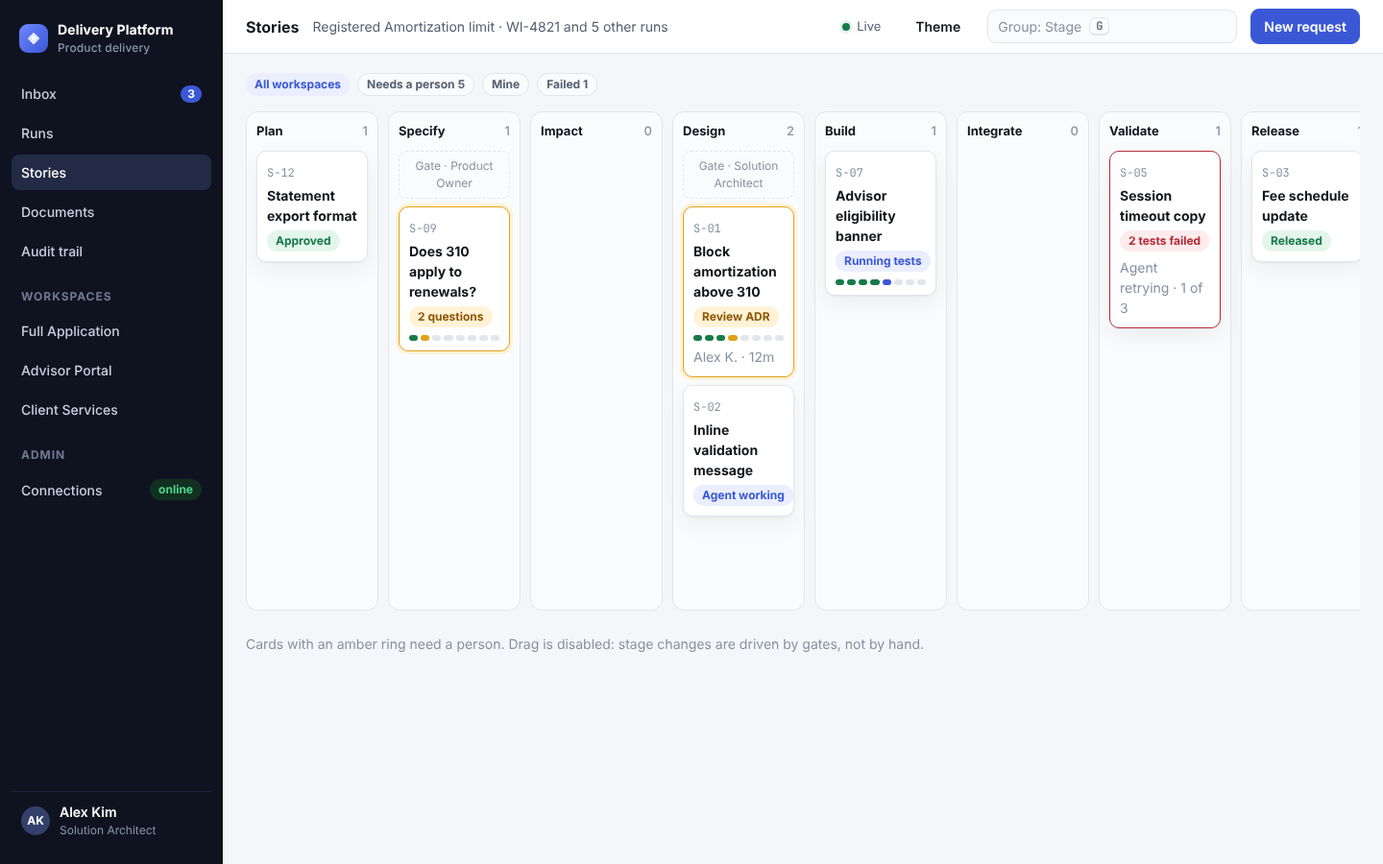
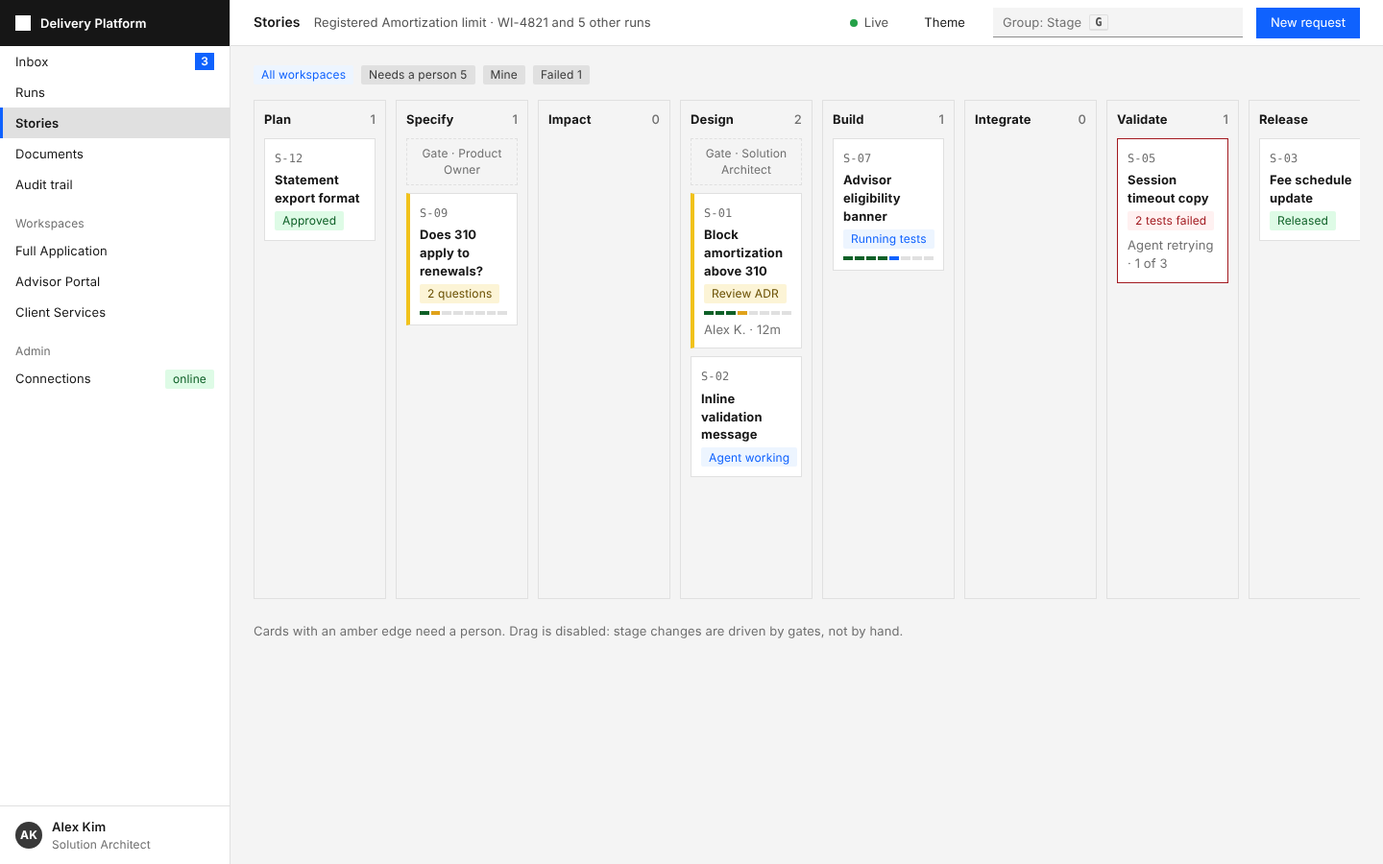
Restyle proposals to flat enterprise design language
Claude-Session: https://claude.ai/code/session_01M8VjWobWK2q9Jsgx3C2T2b

diff --git a/proposals/base.css b/proposals/base.css
@@ -1,53 +1,53 @@
-:root{--bg:#f5f6f9;--panel:#fff;--panel2:#fafbfc;--ink:#12151c;--muted:#566070;--faint:#8791a1;--line:#e2e5ec;--accent:#3a58d6;--accent-ink:#fff;--accent-soft:#eaeefe;--ok:#177a48;--ok-soft:#e4f5eb;--warn:#8f5700;--warn-soft:#fff2d6;--bad:#b42d38;--bad-soft:#fdebed;--rail:#0f1320;--rail-ink:#c9cfdd;--shadow:0 1px 2px rgba(16,24,40,.05),0 8px 24px rgba(16,24,40,.06);--r:12px;--sans:Inter,"Segoe UI",system-ui,sans-serif;--mono:"JetBrains Mono","Cascadia Code",Consolas,monospace}
-:root[data-theme=dark]{--bg:#0c0f17;--panel:#141926;--panel2:#10141f;--ink:#eef0f6;--muted:#a3adc0;--faint:#76819a;--line:#252c3d;--accent:#7b93ff;--accent-ink:#0c0f17;--accent-soft:#1c2547;--ok:#4cd08b;--ok-soft:#12301f;--warn:#f0b64a;--warn-soft:#3a2b0b;--bad:#ff7b86;--bad-soft:#3b151a;--rail:#080a11;--shadow:0 1px 2px rgba(0,0,0,.4)}
-*{box-sizing:border-box}body{margin:0;background:var(--bg);color:var(--ink);font:14px/1.5 var(--sans);-webkit-font-smoothing:antialiased}
+:root{--bg:#f4f4f4;--panel:#fff;--panel2:#f4f4f4;--ink:#161616;--muted:#525252;--faint:#6f6f6f;--line:#e0e0e0;--accent:#0f62fe;--accent-ink:#fff;--accent-soft:#edf5ff;--ok:#0e6027;--ok-soft:#defbe6;--warn:#684e00;--warn-soft:#fcf4d6;--bad:#a2191f;--bad-soft:#fff1f1;--rail:#fff;--rail-ink:#161616;--shadow:none;--r:2px;--sans:"IBM Plex Sans","Segoe UI",system-ui,sans-serif;--mono:"IBM Plex Mono",Consolas,monospace}
+:root[data-theme=dark]{--bg:#161616;--panel:#262626;--panel2:#1c1c1c;--ink:#f4f4f4;--muted:#c6c6c6;--faint:#a8a8a8;--line:#393939;--accent:#78a9ff;--accent-ink:#161616;--accent-soft:#001d6c;--ok:#42be65;--ok-soft:#022d0d;--warn:#f1c21b;--warn-soft:#3a2f00;--bad:#ff8389;--bad-soft:#520408;--rail:#262626;--rail-ink:#f4f4f4;--shadow:none}
+*{box-sizing:border-box}body{margin:0;background:var(--bg);color:var(--ink);font:13px/1.45 var(--sans);letter-spacing:.01em;-webkit-font-smoothing:antialiased}
 button{font:inherit;color:inherit;cursor:pointer}a{color:inherit;text-decoration:none}
 :focus-visible{outline:2px solid var(--accent);outline-offset:2px;border-radius:6px}
-.app{display:grid;grid-template-columns:232px 1fr;min-height:100vh}
-.rail{background:var(--rail);color:var(--rail-ink);padding:16px 12px;display:flex;flex-direction:column;gap:4px;position:sticky;top:0;height:100vh}
-.brand{display:flex;gap:10px;align-items:center;padding:4px 8px 16px;color:#fff;font-weight:700;letter-spacing:.01em}
-.brand i{width:30px;height:30px;border-radius:9px;background:linear-gradient(135deg,#6d86ff,#3a58d6);display:grid;place-items:center;font-style:normal;font-size:15px}
-.brand small{display:block;font-weight:500;color:#8b94ab;font-size:12px}
-.rail a{display:flex;justify-content:space-between;align-items:center;padding:8px 10px;border-radius:8px;font-weight:500}
-.rail a:hover{background:#1a2033}.rail a.on{background:#222a45;color:#fff}
-.rail .n{background:var(--accent);color:#fff;border-radius:99px;padding:0 7px;font-size:12px;font-weight:700}
-.rail h6{margin:16px 10px 4px;font-size:12px;letter-spacing:.08em;text-transform:uppercase;color:#6f7a93}
-.rail .me{margin-top:auto;display:flex;gap:10px;align-items:center;padding:10px;border-top:1px solid #1d2438}
-.av{width:30px;height:30px;border-radius:50%;background:#33406b;color:#fff;display:grid;place-items:center;font-size:12px;font-weight:700}
+.app{display:grid;grid-template-columns:240px 1fr;min-height:100vh}
+.rail{background:var(--rail);color:var(--rail-ink);padding:0;display:flex;flex-direction:column;position:sticky;top:0;height:100vh;border-right:1px solid var(--line)}
+.brand{display:flex;gap:10px;align-items:center;padding:0 16px;height:48px;background:#161616;color:#fff;font-weight:600}
+.brand i{width:16px;height:16px;background:#fff;display:block;font-size:0}
+.brand small{display:none}
+.rail a{display:flex;justify-content:space-between;align-items:center;padding:0 16px;height:32px;color:var(--ink)}
+.rail a:hover{background:#e8e8e8}.rail a.on{background:#e0e0e0;box-shadow:inset 3px 0 0 var(--accent);font-weight:600}
+.rail .n{background:var(--accent);color:#fff;padding:0 6px;font-size:12px;font-weight:600}
+.rail h6{margin:16px 16px 4px;font-size:12px;font-weight:400;color:var(--faint)}
+.rail .me{margin-top:auto;display:flex;gap:10px;align-items:center;padding:12px 16px;border-top:1px solid var(--line)}
+.av{width:28px;height:28px;border-radius:50%;background:#393939;color:#fff;display:grid;place-items:center;font-size:12px;font-weight:700}
 .main{min-width:0;display:flex;flex-direction:column}
-.top{height:56px;display:flex;align-items:center;gap:14px;padding:0 24px;border-bottom:1px solid var(--line);background:var(--panel);position:sticky;top:0;z-index:5}
-.top h1{font-size:16px;margin:0;font-weight:650}
+.top{height:48px;display:flex;align-items:center;gap:14px;padding:0 24px;border-bottom:1px solid var(--line);background:var(--panel);position:sticky;top:0;z-index:5}
+.top h1{font-size:14px;margin:0;font-weight:600}
 .crumb{color:var(--muted)}
 .sp{flex:1}
-.search{display:flex;align-items:center;gap:8px;border:1px solid var(--line);background:var(--panel2);border-radius:9px;padding:6px 10px;min-width:260px;color:var(--faint)}
-kbd{font:600 12px var(--mono);border:1px solid var(--line);border-bottom-width:2px;border-radius:6px;padding:0 6px;background:var(--panel2);color:var(--muted)}
-.btn{border:1px solid var(--line);background:var(--panel);border-radius:9px;padding:7px 13px;font-weight:600;display:inline-flex;gap:8px;align-items:center}
-.btn:hover{background:var(--panel2)}.btn.pri{background:var(--accent);color:var(--accent-ink);border-color:var(--accent)}.btn.pri:hover{filter:brightness(1.08)}
-.btn.ok{background:var(--ok);color:#fff;border-color:var(--ok)}.btn.ghost{border-color:transparent;background:transparent}
+.search{display:flex;align-items:center;gap:8px;border:1px solid var(--line);background:var(--panel2);border-radius:0;border:0;border-bottom:1px solid #8d8d8d;padding:6px 10px;min-width:260px;color:var(--faint)}
+kbd{font:600 12px var(--mono);border:1px solid var(--line);border-bottom-width:2px;border-radius:2px;padding:0 5px;background:var(--panel2);color:var(--muted)}
+.btn{border:1px solid #8d8d8d;background:transparent;border-radius:0;padding:0 14px;height:32px;font-weight:400;display:inline-flex;gap:8px;align-items:center}
+.btn:hover{background:#e8e8e8}.btn.pri{background:var(--accent);color:var(--accent-ink);border-color:var(--accent)}.btn.pri:hover{filter:brightness(.92)}
+.btn.ok{background:var(--accent);color:var(--accent-ink);border-color:var(--accent)}.btn.ghost{border-color:transparent;background:transparent}
 .btn kbd{background:rgba(255,255,255,.18);border-color:rgba(255,255,255,.35);color:inherit}
-.live{display:inline-flex;gap:7px;align-items:center;color:var(--muted);font-size:13px}.live:before{content:"";width:8px;height:8px;border-radius:50%;background:var(--ok);box-shadow:0 0 0 3px var(--ok-soft)}
+.live{display:inline-flex;gap:7px;align-items:center;color:var(--muted);font-size:13px}.live:before{content:"";width:8px;height:8px;border-radius:50%;background:#24a148}
 .page{padding:20px 24px 40px;display:flex;flex-direction:column;gap:16px}
-.card{background:var(--panel);border:1px solid var(--line);border-radius:var(--r);box-shadow:var(--shadow)}
-.card>header{padding:14px 16px;border-bottom:1px solid var(--line);display:flex;align-items:center;gap:10px}
-.card>header h2,.card>header h3{margin:0;font-size:14px;font-weight:650}
+.card{background:var(--panel);border:1px solid var(--line);border-radius:0}
+.card>header{padding:10px 16px;background:var(--panel2);border-bottom:1px solid var(--line);display:flex;align-items:center;gap:10px}
+.card>header h2,.card>header h3{margin:0;font-size:14px;font-weight:600}
 .pad{padding:16px}
-.chip{display:inline-flex;align-items:center;gap:6px;padding:2px 9px;border-radius:99px;font-size:12px;font-weight:650;background:var(--accent-soft);color:var(--accent);white-space:nowrap}
-.chip.ok{background:var(--ok-soft);color:var(--ok)}.chip.warn{background:var(--warn-soft);color:var(--warn)}.chip.bad{background:var(--bad-soft);color:var(--bad)}.chip.mute{background:var(--panel2);color:var(--muted);border:1px solid var(--line)}
+.chip{display:inline-flex;align-items:center;gap:6px;padding:0 8px;height:20px;border-radius:2px;font-size:12px;font-weight:400;background:var(--accent-soft);color:var(--accent);white-space:nowrap}
+.chip.ok{background:var(--ok-soft);color:var(--ok)}.chip.warn{background:var(--warn-soft);color:var(--warn)}.chip.bad{background:var(--bad-soft);color:var(--bad)}.chip.mute{background:#e0e0e0;color:#393939}
 .mono{font-family:var(--mono);font-size:12px}.muted{color:var(--muted)}.faint{color:var(--faint)}
-.lbl{font-size:12px;letter-spacing:.06em;text-transform:uppercase;color:var(--faint);font-weight:650}
+.lbl{font-size:12px;color:var(--faint);font-weight:400}
 /* 8-stage segmented bar */
-.seg{display:flex;gap:3px}.seg i{height:6px;flex:1;border-radius:3px;background:var(--line)}
+.seg{display:flex;gap:2px}.seg i{height:4px;flex:1;border-radius:0;background:var(--line)}
 .seg i.d{background:var(--ok)}.seg i.a{background:var(--accent)}.seg i.w{background:#e0a21a}.seg i.f{background:var(--bad)}
 .dot{width:9px;height:9px;border-radius:50%;display:inline-block;background:var(--line)}.dot.d{background:var(--ok)}.dot.a{background:var(--accent)}.dot.w{background:#e0a21a}
-table{border-collapse:collapse;width:100%}th{text-align:left;font-size:12px;letter-spacing:.05em;text-transform:uppercase;color:var(--faint);font-weight:650;padding:9px 14px;border-bottom:1px solid var(--line);background:var(--panel2)}td{padding:11px 14px;border-bottom:1px solid var(--line);vertical-align:middle}
+table{border-collapse:collapse;width:100%}th{text-align:left;font-size:12px;color:var(--ink);font-weight:600;padding:0 14px;height:32px;border-bottom:1px solid var(--line);background:var(--panel2)}td{padding:7px 14px;border-bottom:1px solid var(--line);vertical-align:middle}
 tr.sel td{background:var(--accent-soft)}
 .theme{margin-left:8px}
 .doc h3{font-size:18px;margin:0 0 6px}.doc h4{margin:18px 0 6px;font-size:14px}.doc p,.doc li{color:var(--ink)}.doc ul{padding-left:18px;margin:6px 0}
 .hl{background:var(--warn-soft);border-bottom:2px solid #e0a21a;padding:0 2px;border-radius:3px}
-.note{border-left:3px solid var(--accent);background:var(--accent-soft);padding:10px 12px;border-radius:0 8px 8px 0}
+.note{border-left:3px solid var(--accent);background:var(--accent-soft);padding:10px 12px}
 .note.warn{border-color:#e0a21a;background:var(--warn-soft)}
 .check{display:flex;gap:10px;align-items:flex-start;padding:8px 0;border-bottom:1px dashed var(--line)}.check:last-child{border:0}
-.check b{width:18px;height:18px;border-radius:5px;border:1.5px solid var(--faint);display:grid;place-items:center;flex:none;margin-top:1px;font-size:12px}.check b.y{background:var(--ok);border-color:var(--ok);color:#fff}
-.tabs{display:flex;gap:2px;border-bottom:1px solid var(--line);padding:0 12px}.tabs a{padding:10px 12px;color:var(--muted);font-weight:600;border-bottom:2px solid transparent}.tabs a.on{color:var(--ink);border-color:var(--accent)}
+.check b{width:18px;height:18px;border-radius:0;border:1px solid var(--faint);display:grid;place-items:center;flex:none;margin-top:1px;font-size:12px}.check b.y{background:var(--ok);border-color:var(--ok);color:#fff}
+.tabs{display:flex;gap:2px;border-bottom:1px solid var(--line);padding:0 12px}.tabs a{padding:8px 14px;color:var(--muted);font-weight:400;border-bottom:2px solid transparent}.tabs a.on{color:var(--ink);border-color:var(--accent);font-weight:600}
 .grid{display:grid;gap:16px}
 @media (prefers-reduced-motion:no-preference){.pulse{animation:p 2s infinite}@keyframes p{50%{opacity:.45}}}

diff --git a/proposals/06-roles.html b/proposals/06-roles.html
@@ -1,15 +1,15 @@
 <!doctype html><html lang="en"><head><meta charset="utf-8"><meta name="viewport" content="width=device-width,initial-scale=1"><title>F · Role lenses</title><link rel="stylesheet" href="base.css"><style>
-.seg2{display:inline-flex;background:var(--panel2);border:1px solid var(--line);border-radius:10px;padding:3px}.seg2 button{border:0;background:transparent;padding:6px 14px;border-radius:8px;font-weight:600;color:var(--muted)}.seg2 button[aria-selected=true]{background:var(--panel);color:var(--ink);box-shadow:var(--shadow)}
+.seg2{display:inline-flex;background:#e0e0e0;padding:0}.seg2 button{border:0;background:transparent;padding:0 16px;height:32px;font-weight:600;color:var(--muted)}.seg2 button[aria-selected=true]{background:var(--panel);color:var(--ink);border-bottom:2px solid var(--accent)}
 .lens{display:none}.lens.on{display:grid;gap:16px}
-.hero{padding:22px;display:flex;gap:20px;align-items:center}.hero h2{margin:0;font-size:22px}
+.hero{padding:22px;display:flex;gap:20px;align-items:center}.hero h2{margin:0;font-size:18px;font-weight:400}
 .cols2{display:grid;grid-template-columns:1.2fr 1fr;gap:16px}
 .row{display:flex;justify-content:space-between;gap:10px;padding:10px 0;border-bottom:1px solid var(--line)}.row:last-child{border:0}
-.term{background:#0b0f19;color:#d6deeb;font:13px/1.6 var(--mono);padding:14px;border-radius:10px}
+.term{background:#0b0f19;color:#d6deeb;font:13px/1.6 var(--mono);padding:14px}
 </style></head><body data-active="inbox"><div class="app"><main class="main">
 <div class="top"><h1>Home</h1><div class="sp"></div><div class="seg2" role="tablist" aria-label="View as"><button role="tab" aria-selected="true" data-l="req">Requester</button><button role="tab" aria-selected="false" data-l="app">Approver</button><button role="tab" aria-selected="false" data-l="eng">Engineer</button><button role="tab" aria-selected="false" data-l="aud">Auditor</button></div></div>
 <div class="page">
-<div class="lens on" id="req"><div class="card hero"><div style="flex:1"><div class="lbl">Your request</div><h2>Registered Amortization limit is in design</h2><p class="muted" style="margin:6px 0 0">Step 4 of 8. An architect is reviewing the plan now. You don't need to do anything.</p></div><div style="width:300px"><div class="seg"><i class="d"></i><i class="d"></i><i class="d"></i><i class="w"></i><i></i><i></i><i></i><i></i></div><div class="muted" style="margin-top:8px">Expected release: Thursday</div></div></div>
-<div class="cols2"><div class="card pad"><div class="lbl">Start a new request</div><textarea style="width:100%;margin-top:8px;height:96px;border:1px solid var(--line);border-radius:10px;padding:10px;font:inherit;background:var(--panel2);color:var(--ink)" aria-label="Business request">Describe what needs to change and why…</textarea><div style="margin-top:10px;display:flex;gap:8px"><button class="btn pri">Start delivery</button><button class="btn ghost">Use a template</button></div></div><div class="card pad"><div class="lbl">Recent requests</div><div class="row"><span>Fee schedule update</span><span class="chip ok">Released</span></div><div class="row"><span>Session timeout copy</span><span class="chip bad">Needs attention</span></div><div class="row"><span>Statement export format</span><span class="chip warn">1 question for you</span></div></div></div></div>
+<div class="lens on" id="req"><div class="card hero"><div style="flex:1"><div class="lbl">Your request</div><h2>WI-4821 · Registered Amortization limit · Design</h2><p class="muted" style="margin:6px 0 0">Stage 4 of 8. Awaiting Solution Architect review. No action required from you.</p></div><div style="width:300px"><div class="seg"><i class="d"></i><i class="d"></i><i class="d"></i><i class="w"></i><i></i><i></i><i></i><i></i></div><div class="muted" style="margin-top:8px">Expected release: Thursday</div></div></div>
+<div class="cols2"><div class="card pad"><div class="lbl">Start a new request</div><textarea style="width:100%;margin-top:8px;height:96px;border:1px solid var(--line);border-radius:0;padding:10px;font:inherit;background:var(--panel2);color:var(--ink)" aria-label="Business request">Describe what needs to change and why…</textarea><div style="margin-top:10px;display:flex;gap:8px"><button class="btn pri">Start delivery</button><button class="btn ghost">Use a template</button></div></div><div class="card pad"><div class="lbl">Recent requests</div><div class="row"><span>Fee schedule update</span><span class="chip ok">Released</span></div><div class="row"><span>Session timeout copy</span><span class="chip bad">Needs attention</span></div><div class="row"><span>Statement export format</span><span class="chip warn">1 question for you</span></div></div></div></div>
 <div class="lens" id="app"><div class="card hero"><div style="flex:1"><div class="lbl">Waiting on you</div><h2>3 decisions</h2><p class="muted" style="margin:6px 0 0">Sorted by how long they have been waiting.</p></div><button class="btn pri">Start with the oldest <kbd>↵</kbd></button></div><div class="card"><table><tbody><tr><td><b>Approve solution design</b><div class="muted">Registered Amortization limit</div></td><td><span class="chip warn">Solution Architect</span></td><td>12m</td><td><button class="btn">Review</button></td></tr><tr><td><b>Answer 2 questions</b><div class="muted">Statement export format</div></td><td><span class="chip warn">Product Owner</span></td><td>1h</td><td><button class="btn">Review</button></td></tr><tr><td><b>Developer completion</b><div class="muted">Validation message copy</div></td><td><span class="chip warn">Engineering Lead</span></td><td>3h</td><td><button class="btn">Review</button></td></tr></tbody></table></div></div>
 <div class="lens" id="eng"><div class="cols2"><div class="card"><header><h3>Developer task · S-01</h3><span class="chip warn">Branch not found</span></header><div class="pad"><div class="row"><span>Azure Boards Task #8812</span><button class="btn">Open</button></div><div class="row"><span>Target branch</span><span class="mono">feature/amortization-max</span></div><div class="row"><span>Pull request</span><span class="faint">Not opened</span></div><div class="row"><span>Pipeline</span><span class="faint">Not started</span></div><div style="margin-top:12px;display:flex;gap:8px"><button class="btn pri">Check branch</button><button class="btn">Copy developer prompt</button></div></div></div><div class="term">$ git push origin feature/amortization-max<br>✓ Branch found<br>✓ Pull request opened #214<br>… pipeline queued</div></div></div>
 <div class="lens" id="aud"><div class="card"><header><h3>Evidence trail · WI-4821</h3><button class="btn" style="margin-left:auto">Export PDF</button></header><table><thead><tr><th>Time</th><th>Event</th><th>Actor</th><th>Evidence</th></tr></thead><tbody><tr><td class="mono">Tue 14:02</td><td>Delivery plan approved</td><td>Priya N.</td><td class="mono">plan-v2.md</td></tr><tr><td class="mono">Tue 16:20</td><td>Specification approved</td><td>Priya N.</td><td class="mono">spec-v3.md</td></tr><tr><td class="mono">Wed 14:33</td><td>Design quality check passed</td><td>Agent</td><td class="mono">adr-0173.md</td></tr><tr><td class="mono">Wed 14:40</td><td>Design opened for review</td><td>Alex K.</td><td class="mono">—</td></tr></tbody></table></div></div>

diff --git a/proposals/04-timeline.html b/proposals/04-timeline.html
@@ -2,11 +2,11 @@
 .wrap{display:grid;grid-template-columns:1fr 340px;gap:24px;padding:24px;align-items:start}
 .feed{display:flex;flex-direction:column;gap:0;max-width:820px}
 .ev{display:grid;grid-template-columns:36px 1fr;gap:14px}
-.ev .l{display:flex;flex-direction:column;align-items:center}.ev .l i{width:30px;height:30px;border-radius:50%;display:grid;place-items:center;font-style:normal;font-size:14px;background:var(--panel);border:2px solid var(--line)}
+.ev .l{display:flex;flex-direction:column;align-items:center}.ev .l i{width:24px;height:24px;border-radius:50%;display:grid;place-items:center;font-style:normal;font-size:14px;background:var(--panel);border:2px solid var(--line)}
 .ev .l u{flex:1;width:2px;background:var(--line);margin:2px 0}
 .ev.d .l i{border-color:var(--ok);color:var(--ok)}.ev.w .l i{border-color:#e0a21a;color:var(--warn);background:var(--warn-soft)}.ev.a .l i{border-color:var(--accent);color:var(--accent)}
 .ev .c{padding-bottom:22px}.ev .c b{font-size:15px}.ev details{margin-top:6px;color:var(--muted)}.ev summary{cursor:pointer;color:var(--accent);font-weight:600}
-.ask{border:2px solid #e0a21a;background:var(--panel);border-radius:var(--r);padding:16px;margin-top:8px;box-shadow:0 0 0 5px var(--warn-soft)}
+.ask{border:1px solid var(--line);border-left:4px solid #f1c21b;background:var(--panel);padding:16px;margin-top:8px}
 .thinking{display:flex;gap:6px;align-items:center;color:var(--muted)}
 </style></head><body data-active="runs"><div class="app"><main class="main">
 <div class="top"><h1>Registered Amortization limit</h1><span class="mono muted">WI-4821</span><span class="chip warn">Waiting for you</span><div class="sp"></div><button class="btn">Stop run</button></div>
@@ -14,9 +14,9 @@
 <div class="ev d"><div class="l"><i>✓</i><u></u></div><div class="c"><b>Plan approved</b><div class="muted">One objective, 2 stories. Priya N. approved yesterday 14:02.</div><details><summary>Show evidence</summary>Plan document · 4 sources · quality check passed</details></div></div>
 <div class="ev d"><div class="l"><i>✓</i><u></u></div><div class="c"><b>Specification approved</b><div class="muted">8 acceptance criteria. 2 questions answered (renewals included: yes).</div></div></div>
 <div class="ev d"><div class="l"><i>✓</i><u></u></div><div class="c"><b>Impact assessed</b><div class="muted">Touches the Product Selection page, the shared validator and 1 test suite. Nothing outside the Full Application.</div></div></div>
-<div class="ev w"><div class="l"><i>!</i><u></u></div><div class="c"><b>Design is ready. I need a decision from you.</b>
-<div class="muted">I recommend enforcing the limit on the client with the existing validator. The server will not re-check it in this story.</div>
-<div class="ask"><div class="lbl">Solution Architect decision</div><p style="margin:6px 0 12px">Approve the design and ADR-0173, knowing the API can still accept values above 310?</p><div style="display:flex;gap:8px;flex-wrap:wrap"><button class="btn ok">Approve &amp; continue</button><button class="btn">Request changes</button><button class="btn ghost">Open full document</button></div></div></div></div>
+<div class="ev w"><div class="l"><i>!</i><u></u></div><div class="c"><b>Design · decision required</b>
+<div class="muted">Recommendation: enforce the limit in the client using the existing validator. Server-side validation is not changed in this story.</div>
+<div class="ask"><div class="lbl">Solution Architect decision</div><p style="margin:6px 0 12px">Approve ADR-0173. Accepted risk: the API continues to accept values above 310.</p><div style="display:flex;gap:8px;flex-wrap:wrap"><button class="btn ok">Approve &amp; continue</button><button class="btn">Request changes</button><button class="btn ghost">Open full document</button></div></div></div></div>
 <div class="ev"><div class="l"><i>5</i><u></u></div><div class="c"><b class="muted">Next: Build</b><div class="faint">Starts after approval. About 20 minutes.</div></div></div>
 <div class="ev"><div class="l"><i>…</i></div><div class="c faint">Integrate · Validate · Release</div></div>
 </section>

diff --git a/proposals/01-inbox.html b/proposals/01-inbox.html
@@ -3,7 +3,7 @@
 .list{border-right:1px solid var(--line);background:var(--panel)}
 .list .hd{padding:14px 16px;display:flex;gap:8px;align-items:center;border-bottom:1px solid var(--line)}
 .item{display:grid;grid-template-columns:10px 1fr auto;gap:12px;padding:14px 16px;border-bottom:1px solid var(--line);cursor:pointer}
-.item.sel{background:var(--accent-soft);box-shadow:inset 3px 0 0 var(--accent)}
+.item.sel{background:#e8e8e8;box-shadow:inset 3px 0 0 var(--accent)}
 .item b{display:block}.item p{margin:2px 0 6px;color:var(--muted)}
 .reader{padding:24px 32px;display:flex;flex-direction:column;gap:16px;max-width:980px}
 .bar{position:sticky;bottom:0;margin:0 -32px;padding:14px 32px;background:var(--panel);border-top:1px solid var(--line);display:flex;gap:10px;align-items:center}
@@ -18,10 +18,10 @@
 <div class="item"><span class="dot d" style="margin-top:6px"></span><div><b>Release complete</b><p>Advisor eligibility banner</p><span class="chip ok">Done</span></div><span class="faint">Tue</span></div>
 </aside>
 <section class="reader"><div style="display:flex;gap:10px;align-items:center"><span class="chip warn">Stage 4 of 8 · Design</span><span class="mono muted">WI-4821</span><div class="sp" style="flex:1"></div><span class="faint">Requested by Priya N. · Product Owner approved plan &amp; spec</span></div>
-<div><h2 style="font-size:24px;margin:0 0 4px">Solution design is ready for your decision</h2><p class="muted" style="margin:0;max-width:70ch">The agent proposes a client-side limit on the Product Selection page. It reuses the existing validator and adds no new service. Two risks need your judgment.</p></div>
+<div><h2 style="font-size:20px;font-weight:400;margin:0 0 4px">Approve solution design · ADR-0173</h2><p class="muted" style="margin:0;max-width:80ch">Proposed: client-side limit on Product Selection, reusing the existing validator. 2 open risks.</p></div>
 <div class="grid" style="grid-template-columns:1fr 1fr">
 <div class="card pad"><div class="lbl">What changes</div><ul style="padding-left:18px;margin:8px 0 0"><li>Registered Amortization field blocks values above 310</li><li>Inline message explains the maximum</li><li>No change to other portals</li></ul></div>
-<div class="card pad"><div class="lbl">Why you are asked</div><p style="margin:8px 0 0">Design changes a business rule enforced in the UI only. Policy requires Architect sign-off before build.</p><p class="faint" style="margin:6px 0 0">Evidence: 9 sources · quality check passed · 2 risks</p></div></div>
+<div class="card pad"><div class="lbl">Reason for review</div><p style="margin:8px 0 0">Design changes a business rule enforced in the UI only. Policy requires Architect sign-off before build.</p><p class="faint" style="margin:6px 0 0">Evidence: 9 sources · quality check passed · 2 risks</p></div></div>
 <div class="card"><header><h3>Decision document · ADR-0173</h3><div class="sp" style="flex:1"></div><button class="btn ghost">Open full view</button></header>
 <div class="pad doc"><h4 style="margin-top:0">Decision</h4><p>Enforce the maximum in the Product Selection form using the shared amortization validator. <span class="hl">The server-side maximum is not changed in this story.</span></p><h4>Risks</h4><ul><li><b>Medium</b> – Server does not re-validate; a direct API call can bypass the limit.</li><li><b>Low</b> – Message copy has not been approved by Compliance.</li></ul></div></div>
 <div class="bar"><button class="btn ok">Approve &amp; continue <kbd>A</kbd></button><button class="btn">Request changes <kbd>R</kbd></button><button class="btn ghost">Ask a question <kbd>C</kbd></button><div style="flex:1"></div><span class="faint"><kbd>J</kbd> <kbd>K</kbd> next / previous item</span></div>

diff --git a/proposals/03-story-board.html b/proposals/03-story-board.html
@@ -1,12 +1,12 @@
 <!doctype html><html lang="en"><head><meta charset="utf-8"><meta name="viewport" content="width=device-width,initial-scale=1"><title>C · Story board</title><link rel="stylesheet" href="base.css"><style>
 .board{display:grid;grid-template-columns:repeat(8,minmax(138px,1fr));gap:10px;overflow-x:auto;padding-bottom:8px}
-.col{background:var(--panel2);border:1px solid var(--line);border-radius:var(--r);padding:10px;min-height:520px}
+.col{background:var(--panel2);border:1px solid var(--line);padding:10px;min-height:520px}
 .col h3{margin:0 0 10px;font-size:13px;display:flex;justify-content:space-between;align-items:center}
 .col h3 span{color:var(--faint);font-weight:500}
-.st{background:var(--panel);border:1px solid var(--line);border-radius:10px;padding:10px;margin-bottom:8px;box-shadow:var(--shadow)}
-.st.need{border-color:#e0a21a;box-shadow:0 0 0 3px var(--warn-soft)}
+.st{background:var(--panel);border:1px solid var(--line);padding:10px;margin-bottom:8px}
+.st.need{border-left:4px solid #f1c21b}
 .st b{display:block;margin:4px 0}
-.gate{font-size:12px;color:var(--faint);text-align:center;border:1px dashed var(--line);border-radius:8px;padding:6px;margin-bottom:8px}
+.gate{font-size:12px;color:var(--faint);text-align:center;border:1px dashed var(--line);padding:6px;margin-bottom:8px}
 </style></head><body data-active="stories"><div class="app"><main class="main">
 <div class="top"><h1>Stories</h1><span class="crumb">Registered Amortization limit · WI-4821 and 5 other runs</span><div class="sp"></div><div class="search">Group: Stage <kbd>G</kbd></div><button class="btn pri">New request</button></div>
 <div class="page"><div style="display:flex;gap:8px;flex-wrap:wrap"><span class="chip">All workspaces</span><span class="chip mute">Needs a person 5</span><span class="chip mute">Mine</span><span class="chip mute">Failed 1</span></div>
@@ -21,4 +21,4 @@
 <section class="col"><h3>Integrate <span>0</span></h3></section>
 <section class="col"><h3>Validate <span>1</span></h3><div class="st" style="border-color:var(--bad)"><span class="mono faint">S-05</span><b>Session timeout copy</b><span class="chip bad">2 tests failed</span><div class="faint" style="margin-top:6px">Agent retrying · 1 of 3</div></div></section>
 <section class="col"><h3>Release <span>1</span></h3><div class="st"><span class="mono faint">S-03</span><b>Fee schedule update</b><span class="chip ok">Released</span></div></section>
-</div><p class="faint" style="margin:0">Cards with an amber ring need a person. Drag is disabled: stage changes are driven by gates, not by hand.</p></div></main></div><script src="app.js"></script></body></html>
+</div><p class="faint" style="margin:0">Cards with an amber edge need a person. Drag is disabled: stage changes are driven by gates, not by hand.</p></div></main></div><script src="app.js"></script></body></html>

diff --git a/proposals/app.js b/proposals/app.js
@@ -4,8 +4,8 @@ const L=[['Inbox','inbox',3],['Runs','runs'],['Stories','stories'],['Documents',
 const rail=`<nav class="rail" aria-label="Primary"><div class="brand"><i>◈</i><div>Delivery Platform<small>Product delivery</small></div></div>
 ${L.map(x=>`<a href="#" class="${act===x[1]?'on':''}">${x[0]}${x[2]?`<span class="n">${x[2]}</span>`:''}</a>`).join('')}
 <h6>Workspaces</h6><a href="#">Full Application</a><a href="#">Advisor Portal</a><a href="#">Client Services</a>
-<h6>Admin</h6><a href="#">Connections <span class="chip ok" style="background:#12301f;color:#4cd08b">online</span></a>
-<div class="me"><span class="av">AK</span><div><div style="color:#fff;font-weight:600">Alex Kim</div><div style="font-size:12px;color:#8b94ab">Solution Architect</div></div></div></nav>`;
+<h6>Admin</h6><a href="#">Connections <span class="chip ok" style="background:#defbe6;color:#0e6027">online</span></a>
+<div class="me"><span class="av">AK</span><div><div style="font-weight:600">Alex Kim</div><div style="font-size:12px;color:#6f6f6f">Solution Architect</div></div></div></nav>`;
 const app=document.querySelector('.app');if(app&&!b.dataset.norail&&!app.querySelector('.rail'))app.insertAdjacentHTML('afterbegin',rail);
 const t=document.querySelector('.top .sp');
 if(t){t.insertAdjacentHTML('afterend','<span class="live" title="Live updates connected">Live</span><button class="btn ghost theme" aria-label="Toggle theme">Theme</button>');

diff --git a/proposals/index.html b/proposals/index.html
@@ -1,7 +1,7 @@
 <!doctype html><html lang="en"><head><meta charset="utf-8"><meta name="viewport" content="width=device-width,initial-scale=1"><title>Redesign proposals</title><link rel="stylesheet" href="base.css"><style>
-.w{max-width:1240px;margin:0 auto;padding:40px 32px 64px}h1{font-size:34px;letter-spacing:-.02em;margin:0 0 8px}.lede{font-size:17px;color:var(--muted);max-width:70ch}
+.w{max-width:1240px;margin:0 auto;padding:40px 32px 64px}h1{font-size:28px;font-weight:300;margin:0 0 8px}.lede{font-size:14px;color:var(--muted);max-width:70ch}
 .g{display:grid;grid-template-columns:repeat(3,1fr);gap:20px;margin:28px 0}.c{display:flex;flex-direction:column;overflow:hidden}.c img{width:100%;border-bottom:1px solid var(--line);display:block}.c div{padding:16px}.c h3{margin:0 0 4px;font-size:17px}.c p{margin:4px 0;color:var(--muted)}
-h2{margin:40px 0 12px;font-size:22px}.two{display:grid;grid-template-columns:1fr 1fr;gap:20px}li{margin:6px 0}
+h2{margin:40px 0 12px;font-size:18px;font-weight:400}.two{display:grid;grid-template-columns:1fr 1fr;gap:20px}li{margin:6px 0}
 @media(max-width:900px){.g,.two{grid-template-columns:1fr}}
 </style></head><body><div class="w">
 <span class="chip">Proposals for client review · desktop-first</span>

diff --git a/proposals/05-workbench.html b/proposals/05-workbench.html
@@ -6,7 +6,7 @@
 .doc-wrap{overflow:auto;padding:28px 40px}.paper{max-width:780px;margin:auto}
 .toc{display:flex;gap:6px;margin-bottom:16px;flex-wrap:wrap}
 .rr{border-left:1px solid var(--line);background:var(--panel);overflow:auto;padding:16px;display:flex;flex-direction:column;gap:14px}
-.cmt{background:var(--panel2);border:1px solid var(--line);border-radius:10px;padding:10px}
+.cmt{background:var(--panel2);border-left:3px solid var(--accent);padding:10px}
 table.d td,table.d th{padding:7px 10px}
 </style></head><body data-active="docs" data-norail="1"><div class="app" style="grid-template-columns:1fr"><main class="main">
 <div class="top"><span class="crumb">Runs /</span><h1>Registered Amortization limit</h1><span class="mono muted">WI-4821</span><div class="sp"></div><span class="chip warn">Design · in review</span></div>

diff --git a/proposals/02-mission-control.html b/proposals/02-mission-control.html
@@ -1,5 +1,5 @@
 <!doctype html><html lang="en"><head><meta charset="utf-8"><meta name="viewport" content="width=device-width,initial-scale=1"><title>B · Mission control</title><link rel="stylesheet" href="base.css"><style>
-.kpis{display:grid;grid-template-columns:repeat(4,1fr);gap:16px}.kpi{padding:16px}.kpi b{font-size:30px;letter-spacing:-.02em;display:block}.spark{height:30px;margin-top:6px}
+.kpis{display:grid;grid-template-columns:repeat(4,1fr);gap:16px}.kpi{padding:16px}.kpi b{font-size:28px;font-weight:300;display:block}.spark{height:30px;margin-top:6px}
 .cols{display:grid;grid-template-columns:1fr 360px;gap:16px;align-items:start}
 .step{display:flex;gap:10px;padding:8px 0}.step .dot{margin-top:6px}
 </style></head><body data-active="runs"><div class="app"><main class="main">
